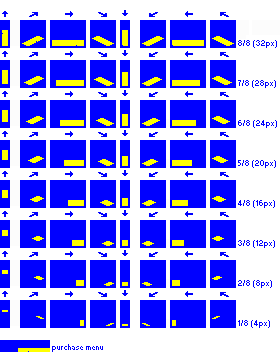
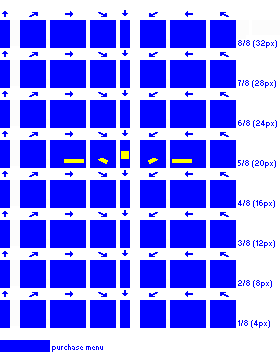
Codechange: misc. changes relating to graphics for fifth wheel trucks

diff --git a/src/build_bandit.py b/src/build_bandit.py
@@ -150,7 +150,8 @@ class Truck(object):
         self.run_cost_override = config.getfloat(id, 'run_cost_override')
         self.graphics_file = global_constants.graphics_path + self.id + '.png'
         if self.id == 'hackler_R':
-            self.graphics_file = global_constants.generated_images_path + 'truck-hackler_R-chassis-tandem-7_8-cab-cc1-2_8-body_flat-cc1-5_8-cargo_coils-grey_metal.png'
+            #self.graphics_file = global_constants.generated_images_path + 'truck-hackler_R-chassis-tandem-7_8-cab-cc1-2_8-body_flat-cc1-5_8-cargo_coils-grey_metal.png'
+            self.graphics_file = global_constants.generated_images_path + 'truck-hackler_R-chassis-tandem-7_8-cab-cc1-2_8-body_fifth_wheel_mask-blue_mask-5_8.png'
 
         # fifth wheel trucks need capacities modifying
         if self.truck_type == 'fifth_wheel_truck':
